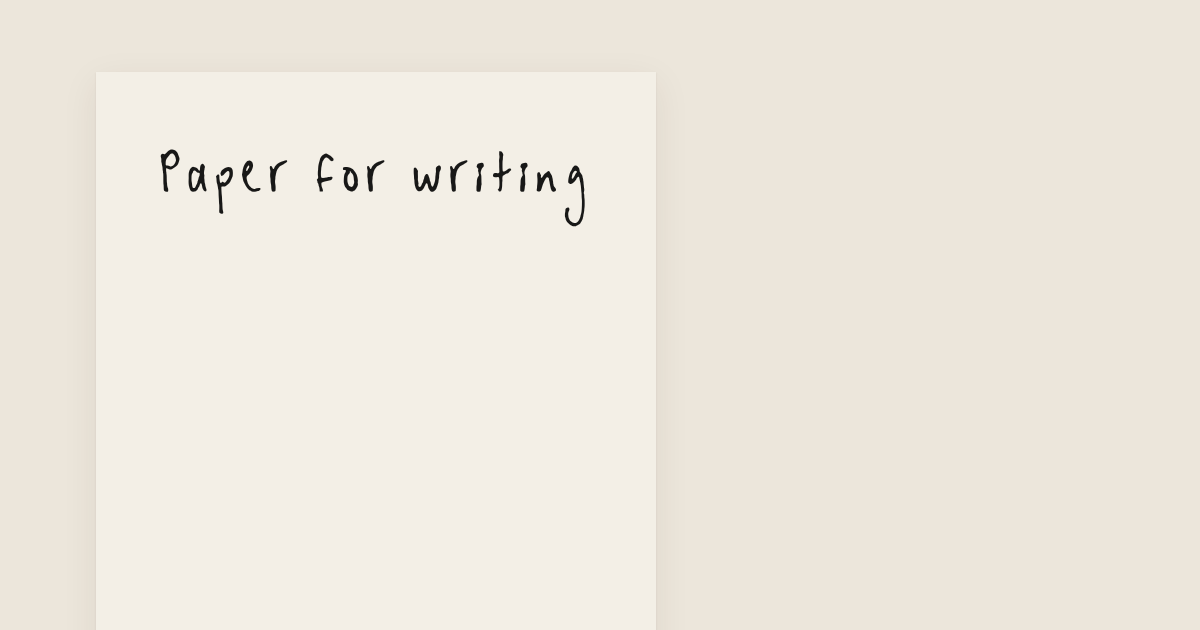
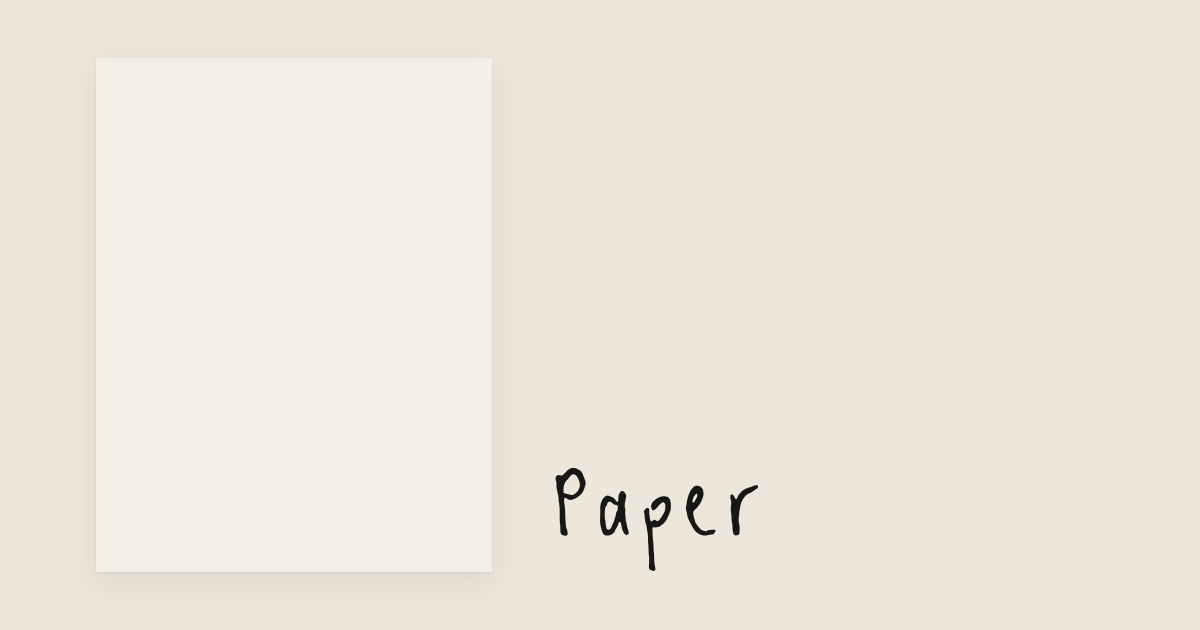
Link preview: a blank sheet on the desk, "Paper" handwritten beside it
"Paper" in the Paper Hand handwriting at 96px, to the right of the sheet, its p's tail on the sheet's bottom edge.

Claude-Session: https://claude.ai/code/session_01GtdkSYJLahZBiaVRCGKpMt

diff --git a/app/web/download.html b/app/web/download.html
@@ -4,7 +4,7 @@
 <meta charset="utf-8">
 <meta name="viewport" content="width=device-width, initial-scale=1">
 <title>Paper App for Mac</title>
-<!-- the link preview in Messages, Slack and the like: a sheet on the desk, "Paper for writing" in the handwriting -->
+<!-- the link preview in Messages, Slack and the like: a blank sheet on the desk, "Paper" handwritten beside it -->
 <meta name="description" content="A surface for writers.">
 <meta property="og:type" content="website">
 <meta property="og:site_name" content="Paper">
@@ -14,7 +14,7 @@
 <meta property="og:image" content="https://paperwrite.space/assets/og.png">
 <meta property="og:image:width" content="1200">
 <meta property="og:image:height" content="630">
-<meta property="og:image:alt" content="A sheet of paper on a desk with &quot;Paper for writing&quot; handwritten at the top">
+<meta property="og:image:alt" content="A blank sheet of paper on a desk, with <meta property="og:image:alt" content="A sheet of paper on a desk with &quot;Paper for writing&quot; handwritten at the top">quot;Paper<meta property="og:image:alt" content="A sheet of paper on a desk with &quot;Paper for writing&quot; handwritten at the top">quot; handwritten beside it">
 <meta name="twitter:card" content="summary_large_image">
 <meta name="theme-color" content="#f3efe6">
 <link rel="icon" type="image/png" href="assets/favicon.png">

diff --git a/app/index.html b/app/index.html
@@ -4,7 +4,7 @@
 <meta charset="utf-8">
 <meta name="viewport" content="width=device-width, initial-scale=1">
 <title>Paper</title>
-<!-- the link preview in Messages, Slack and the like: a sheet on the desk, "Paper for writing" in the handwriting -->
+<!-- the link preview in Messages, Slack and the like: a blank sheet on the desk, "Paper" handwritten beside it -->
 <meta name="description" content="A surface for writers.">
 <meta property="og:type" content="website">
 <meta property="og:site_name" content="Paper">
@@ -14,7 +14,7 @@
 <meta property="og:image" content="https://paperwrite.space/assets/og.png">
 <meta property="og:image:width" content="1200">
 <meta property="og:image:height" content="630">
-<meta property="og:image:alt" content="A sheet of paper on a desk with &quot;Paper for writing&quot; handwritten at the top">
+<meta property="og:image:alt" content="A blank sheet of paper on a desk, with <meta property="og:image:alt" content="A sheet of paper on a desk with &quot;Paper for writing&quot; handwritten at the top">quot;Paper<meta property="og:image:alt" content="A sheet of paper on a desk with &quot;Paper for writing&quot; handwritten at the top">quot; handwritten beside it">
 <meta name="twitter:card" content="summary_large_image">
 <meta name="theme-color" content="#f3efe6">
 <meta name="apple-mobile-web-app-capable" content="yes">
